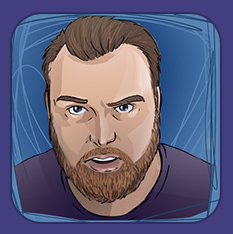
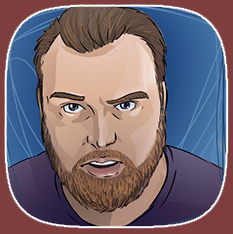
new year new look

diff --git a/index.html b/index.html
@@ -10,29 +10,16 @@
 		  gtag('config', 'UA-117944748-1');
 		</script>
 		<title>Roguebox Studios</title> 
-		<link href="https://fonts.googleapis.com/css?family=Anton|Jockey+One" rel="stylesheet">
+		<link href="https://fonts.googleapis.com/css?family=Permanent+Marker" rel="stylesheet">
 		<style>
 			/* Font Definitions */
-			@font-face
-			{font-family:"Jockey One";
-			panose-1:2 0 5 6 0 0 0 2 0 4;
-			mso-font-charset:238;
-			mso-generic-font-family:auto;
-			mso-font-pitch:variable;
-			mso-font-signature:-1610612689 1073741898 0 0 2 0;}
-			@font-face
-			{font-family:"Anton";
-			panose-1:0 0 5 0 0 0 0 0 0 0;
-			mso-font-charset:0;
-			mso-generic-font-family:auto;
-			mso-font-pitch:variable;
-			mso-font-signature:536870927 0 0 0 403 0;}
+			@import url('https://fonts.googleapis.com/css2?family=Permanent+Marker&display=swap');
 		</style>
 		<meta name="viewport" content="width=device-width, initial-scale=1, maximum-scale=1, minimum-scale=1, user-scalable=no, minimal-ui">
 	</head>
 	<body>
 		<div align=center>
-			<table width="333pt" cellspacing="0" cellpadding="0" style='background:#423e7e;vertical-align:middle;text-align:center'>
+			<table width="340pt" cellspacing="0" cellpadding="0" style='background:#7e3e3e;vertical-align:middle;text-align:center'>
 				<tr height = "30pt"> <!-- Top Edge -->
 					<td background="index_files/Layout_03.jpg"></td>
 					<td background="index_files/Layout_04.jpg"></td>
@@ -44,7 +31,7 @@
 						<table>
 							<tr>
 								<td>
-									<table width=273pt style='background:#423e7e;vertical-align:middle;text-align:center'>
+									<table width=275pt style='background:#7e3e3e;vertical-align:middle;text-align:center'>
 										<tr>
 											<td height=50 style='vertical-align:top'>
 												<img src="index_files/Layout_09.jpg" width=233 height=234 title="I'm a pretty boy" />
@@ -52,8 +39,8 @@
 										</tr>
 										<tr>
 											<td height=50 style='vertical-align:top'>
-												<span style="font-family: 'Anton', sans-serif; font-size: 28.0pt; color: white">
-												STEPHEN BERG
+												<span style="font-family: 'Permanent Marker', cursive; font-size: 28.0pt; color: white">
+												Stephen Berg
 												</span>
 											</td>
 										</tr>
@@ -77,8 +64,8 @@
 										</tr>
 										<tr>
 											<td height=50 style='vertical-align:top'>
-												<span style="font-family: 'Anton', sans-serif; font-size: 28.0pt; color: white">
-												ROGUEBOX
+												<span style="font-family: 'Permanent Marker', cursive; font-size: 28.0pt; color: white">
+												Roguebox
 												</span>
 											</td>
 										</tr>
@@ -111,7 +98,7 @@
 					</td>
 					<td background="index_files/Untitled-1_10.jpg" width="30pt"></td> <!-- Right Edge -->
 				</tr>
-				<tr height = "29pt"> <!-- Bottom Edge -->
+				<tr height = "30pt"> <!-- Bottom Edge -->
 					<td background="index_files/Layout_13.jpg"></td>
 					<td background="index_files/Layout_14.jpg"></td>
 					<td background="index_files/Layout_15.jpg"></td>
